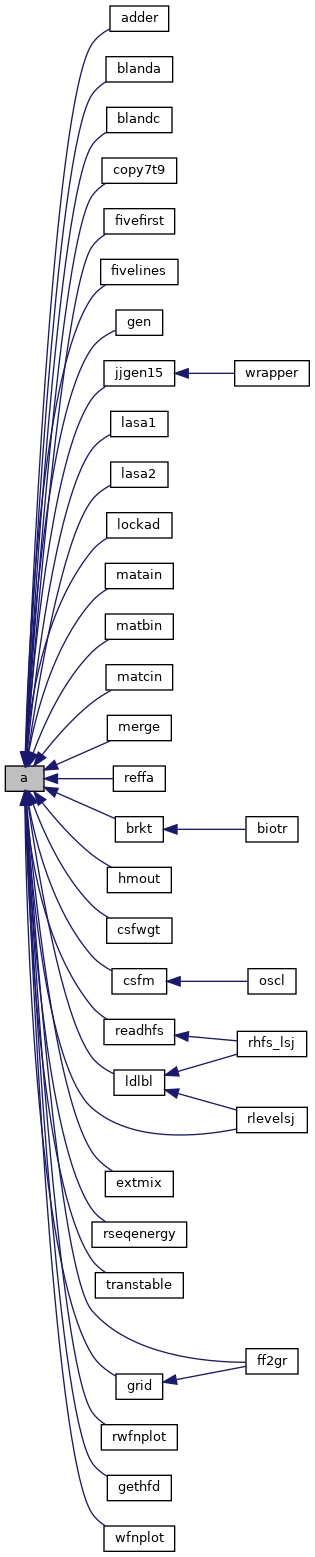
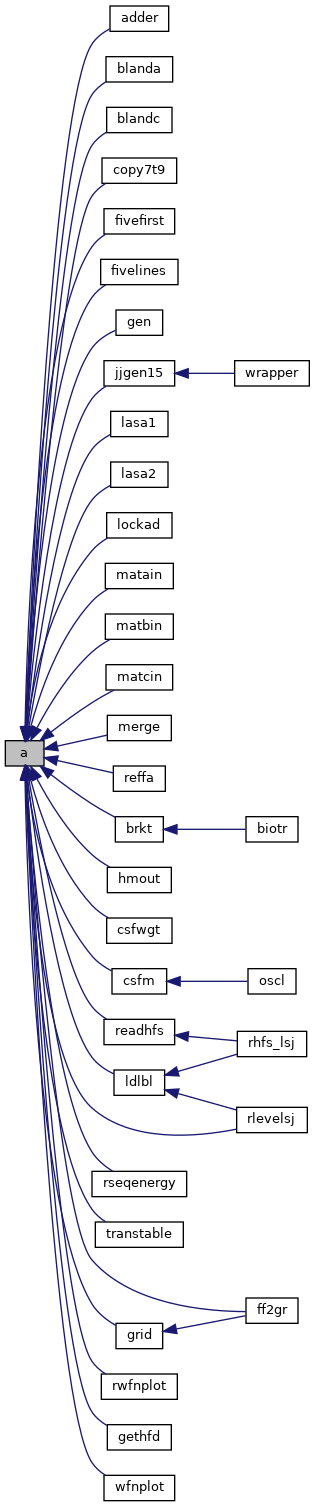
Deploy documentation

diff --git a/HF_8f90.html b/HF_8f90.html
@@ -740,14 +740,13 @@ Here is the caller graph for this function:</div>
 <area shape="rect" id="node25" href="rhfs__lsj_8f90.html#aa2e0cef94b2c9bcaca5504d0ed87f817" title="readhfs" alt="" coords="104,1019,175,1045"/>
 <area shape="rect" id="node27" href="rhfs__lsj_8f90.html#abb23c9655e5c0cf4f0d1c155e4bd3a15" title="ldlbl" alt="" coords="114,1069,165,1096"/>
 <area shape="rect" id="node28" href="rlevels_8f90.html#af63a9ced1eca4a05d82e0bab83f89b0f" title="rlevelsj" alt="" coords="237,1107,307,1133"/>
-<area shape="rect" id="node29" href="rmixextract_8f90.html#a73866f338c7f9b04a04e90f4158145d9" title="extmix" alt="" coords="105,1171,173,1197"/>
-<area shape="rect" id="node30" href="rseqenergy_8f90.html#a0ac0b96cc6ede20c5c8a57dd7be1f1e4" title="rseqenergy" alt="" coords="92,1221,187,1248"/>
-<area shape="rect" id="node31" href="rtabtrans2_8f90.html#a094c1eb2b9b464634c0276cc54218b0a" title="transtable" alt="" coords="95,1272,183,1299"/>
-<area shape="rect" id="node32" href="rwfnmchfmcdf_8f90.html#ad9da608d6714d798548f997b82748e7a" title="ff2gr" alt="" coords="246,1348,298,1375"/>
-<area shape="rect" id="node33" href="rwfnmchfmcdf_8f90.html#abf24638d2d9ccd1216003a1a85a567ca" title="grid" alt="" coords="116,1373,163,1400"/>
-<area shape="rect" id="node34" href="rwfnplot_8f90.html#a754e8cd8e5ef9e8e6ed7f59997a130d2" title="rwfnplot" alt="" coords="101,1424,177,1451"/>
-<area shape="rect" id="node35" href="rwfnrelabel_8f90.html#a1df29bc3e1732598595fdcdd43f55ce1" title="gethfd" alt="" coords="107,1475,171,1501"/>
-<area shape="rect" id="node36" href="wfnplot_8f90.html#a9bf7322d26f94068522b79ecfb99c62a" title="wfnplot" alt="" coords="104,1525,175,1552"/>
+<area shape="rect" id="node29" href="rseqenergy_8f90.html#a0ac0b96cc6ede20c5c8a57dd7be1f1e4" title="rseqenergy" alt="" coords="92,1171,187,1197"/>
+<area shape="rect" id="node30" href="rtabtrans2_8f90.html#a094c1eb2b9b464634c0276cc54218b0a" title="transtable" alt="" coords="95,1221,183,1248"/>
+<area shape="rect" id="node31" href="rwfnmchfmcdf_8f90.html#ad9da608d6714d798548f997b82748e7a" title="ff2gr" alt="" coords="246,1297,298,1324"/>
+<area shape="rect" id="node32" href="rwfnmchfmcdf_8f90.html#abf24638d2d9ccd1216003a1a85a567ca" title="grid" alt="" coords="116,1323,163,1349"/>
+<area shape="rect" id="node33" href="rwfnplot_8f90.html#a754e8cd8e5ef9e8e6ed7f59997a130d2" title="rwfnplot" alt="" coords="101,1373,177,1400"/>
+<area shape="rect" id="node34" href="rwfnrelabel_8f90.html#a1df29bc3e1732598595fdcdd43f55ce1" title="gethfd" alt="" coords="107,1424,171,1451"/>
+<area shape="rect" id="node35" href="wfnplot_8f90.html#a9bf7322d26f94068522b79ecfb99c62a" title="wfnplot" alt="" coords="104,1475,175,1501"/>
 <area shape="rect" id="node10" href="wrapper_8f90.html#a807b5a72d1102e3fe03ee035aa4c43d5" title="wrapper" alt="" coords="235,360,309,387"/>
 <area shape="rect" id="node20" href="biotrmpi_8f90.html#ae6fbfef8bd1766c5610cc7d111b4b41c" title="biotr" alt="" coords="246,816,298,843"/>
 <area shape="rect" id="node24" href="oscl_8f90.html#a2c3ab552589670106851883f69bcbc12" title="oscl" alt="" coords="248,968,296,995"/>

diff --git a/rmixextract_8f90.html b/rmixextract_8f90.html
@@ -96,8 +96,7 @@ Here is the call graph for this function:</div>
 <div class="dyncontent">
 <div class="center"><img src="rmixextract_8f90_a73866f338c7f9b04a04e90f4158145d9_cgraph.png" border="0" usemap="#rmixextract_8f90_a73866f338c7f9b04a04e90f4158145d9_cgraph" alt=""/></div>
 <map name="rmixextract_8f90_a73866f338c7f9b04a04e90f4158145d9_cgraph" id="rmixextract_8f90_a73866f338c7f9b04a04e90f4158145d9_cgraph">
-<area shape="rect" id="node2" href="HF_8f90.html#a98791ee21a4056f61c37360e4192830a" title="a" alt="" coords="129,5,167,32"/>
-<area shape="rect" id="node3" href="rmixextract_8f90.html#a9a17539ded0aa64b62abd6fff003b256" title="iocsf" alt="" coords="121,56,175,83"/>
+<area shape="rect" id="node2" href="rmixextract_8f90.html#a9a17539ded0aa64b62abd6fff003b256" title="iocsf" alt="" coords="121,5,175,32"/>
 </map>
 </div>
 
